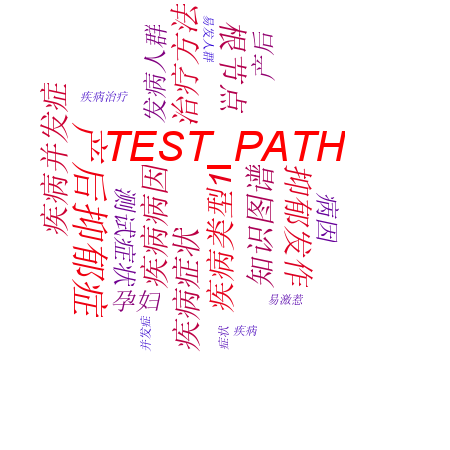
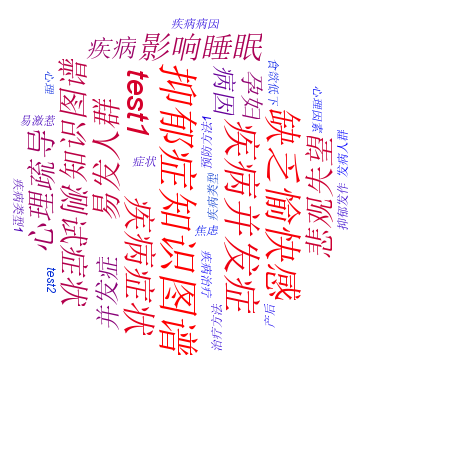
页面调整

Changed region(s): [[0.0311, 0.0, 0.7778, 0.8089]]

diff --git a/ruoyi-ui/src/views/diagnose.vue b/ruoyi-ui/src/views/diagnose.vue
@@ -116,38 +116,40 @@
         </el-col>
         <el-col :span="16">
 <!--          疾病信息展示区域-->
-          <el-row>
-            <div class="card-header">
-              <span style="margin-right: 10px">疾病信息</span>
+<!--          <el-row>-->
+<!--            <div class="card-header">-->
+<!--              <span style="margin-right: 10px">疾病信息</span>-->
 
-            </div>
-            {{this.currentRow}}
-          </el-row>
+<!--            </div>-->
+<!--            {{this.currentRow}}-->
+<!--          </el-row>-->
 
-          <el-row>
-            <div class="card-header">
-              <span style="margin-right: 10px">疾病治疗方式</span>
-            </div>
-            {{this.diseaseInfo.treatmentMethod}}
-          </el-row>
+          <div style="margin-left: 20px">
+            <el-row>
+              <div class="card-header">
+                <span style="margin-right: 10px">疾病治疗方式</span>
+              </div>
+              <!--            {{this.diseaseInfo.treatmentMethod}}-->
+              <template >
+                <li v-for="(item, index) in this.diseaseInfo.treatmentMethod" :key="index">
+                  {{ item.label }}
+                </li>
+              </template>
+            </el-row>
 
-          <el-row>
-            <div class="card-header">
-              <span style="margin-right: 10px">疾病预防方式</span>
-            </div>
-            {{this.diseaseInfo.preventMethod}}
+            <el-row>
+              <div class="card-header">
+                <span style="margin-right: 10px">疾病预防方式</span>
+              </div>
+              <!--            {{this.diseaseInfo.preventMethod}}-->
+              <template >
+                <li v-for="(item, index) in this.diseaseInfo.preventMethod" :key="index">
+                  {{ item.label }}
+                </li>
+              </template>
+            </el-row>
+          </div>
 
-            <template >
-              <li v-for="(item, index) in items" :key="index">
-                {{ item }}
-              </li>
-<!--              <el-menu>-->
-<!--                <el-menu-item v-for="(item, index) in items" :key="index">-->
-<!--                  {{ item }}-->
-<!--                </el-menu-item>-->
-<!--              </el-menu>-->
-            </template>
-          </el-row>
 
         </el-col>
       </el-row>
@@ -256,7 +258,7 @@ export default {
       this.similarNodes = [];
 
       // 执行分析
-      executeDiagnose({selectedNodeList:this.selectedNodes}).then(resp=>{
+      executeDiagnose({selectedNodeList:this.selectedNodes,sex:this.selectedSex,age:this.selectedAge}).then(resp=>{
         console.log(resp.list)
 
         var that = this

diff --git a/ruoyi-ui/src/views/mange/instance/node.vue b/ruoyi-ui/src/views/mange/instance/node.vue
@@ -36,8 +36,8 @@
             <div id="right-head">
 
               <el-button @click="addNode">新建实体</el-button>
-              <el-button>图谱展示</el-button>
-              <el-button>表格展示</el-button>
+<!--              <el-button>图谱展示</el-button>-->
+<!--              <el-button>表格展示</el-button>-->
             </div>
             <div id="right-body">
               <el-row>
@@ -52,21 +52,21 @@
                       <el-table-column
                         prop="label"
                         label="label"
-                        width="200"
+
                         align="center">
                       </el-table-column>
 
                       <el-table-column
                         prop="name"
                         label="名称"
-                        width="200"
+
                         align="center">
                       </el-table-column>
 
                       <el-table-column
                         fixed="right"
                         label="操作"
-                        width="100"
+
                         align="center">
                         <template slot-scope="scope">
                           <el-button @click="gotoDetail(scope.row)" type="text" size="small">查看</el-button>

diff --git a/ruoyi-ui/src/views/system/user/index.vue b/ruoyi-ui/src/views/system/user/index.vue
@@ -140,7 +140,7 @@
           <el-table-column type="selection" width="50" align="center" />
           <el-table-column label="用户编号" align="center" key="userId" prop="userId" v-if="columns[0].visible" />
           <el-table-column label="用户名称" align="center" key="userName" prop="userName" v-if="columns[1].visible" :show-overflow-tooltip="true" />
-          <el-table-column label="用户昵称" align="center" key="nickName" prop="nickName" v-if="columns[2].visible" :show-overflow-tooltip="true" />
+<!--          <el-table-column label="用户昵称" align="center" key="nickName" prop="nickName" v-if="columns[2].visible" :show-overflow-tooltip="true" />-->
 <!--          <el-table-column label="部门" align="center" key="deptName" prop="dept.deptName" v-if="columns[3].visible" :show-overflow-tooltip="true" />-->
           <el-table-column label="手机号码" align="center" key="phonenumber" prop="phonenumber" v-if="columns[4].visible" width="120" />
           <el-table-column label="状态" align="center" key="status" v-if="columns[5].visible">

diff --git a/ruoyi-admin/src/main/java/com/ruoyi/web/controller/ExtraController.java b/ruoyi-admin/src/main/java/com/ruoyi/web/controller/ExtraController.java
@@ -155,6 +155,14 @@ public class ExtraController {
                     symptomsIdList = value.asList();
                 }
             }
+            // 如果是这两种疾病 同时性别为男性
+            if(("产后抑郁症".equals(node.getLabel()) || "绝经与抑郁症".equals(node.getLabel())) && req.getSex() == 1){
+                continue;
+            }
+            // 年龄
+            if(("老年抑郁症".equals(node.getLabel()) || "老年期抑郁症".equals(node.getLabel())) && req.getAge() < 60){
+                continue;
+            }
             diseaseSymptomsMap.put(node,symptomsIdList);
         }
 
@@ -286,6 +294,7 @@ public class ExtraController {
             paramSet.addAll(list);
         }
         System.out.println(paramSet);
+        paramSet.remove("TEST_PATH");
         createWordCloud(paramSet);
         return null;
     }

diff --git a/ruoyi-system/src/main/java/com/ruoyi/system/req/ExtraReq.java b/ruoyi-system/src/main/java/com/ruoyi/system/req/ExtraReq.java
@@ -13,4 +13,8 @@ public class ExtraReq {
     private List<Neo4jNode> selectedNodeList;
 
     private Long diseaseNodeId;
+
+    private Integer sex;
+
+    private Integer age;
 }
